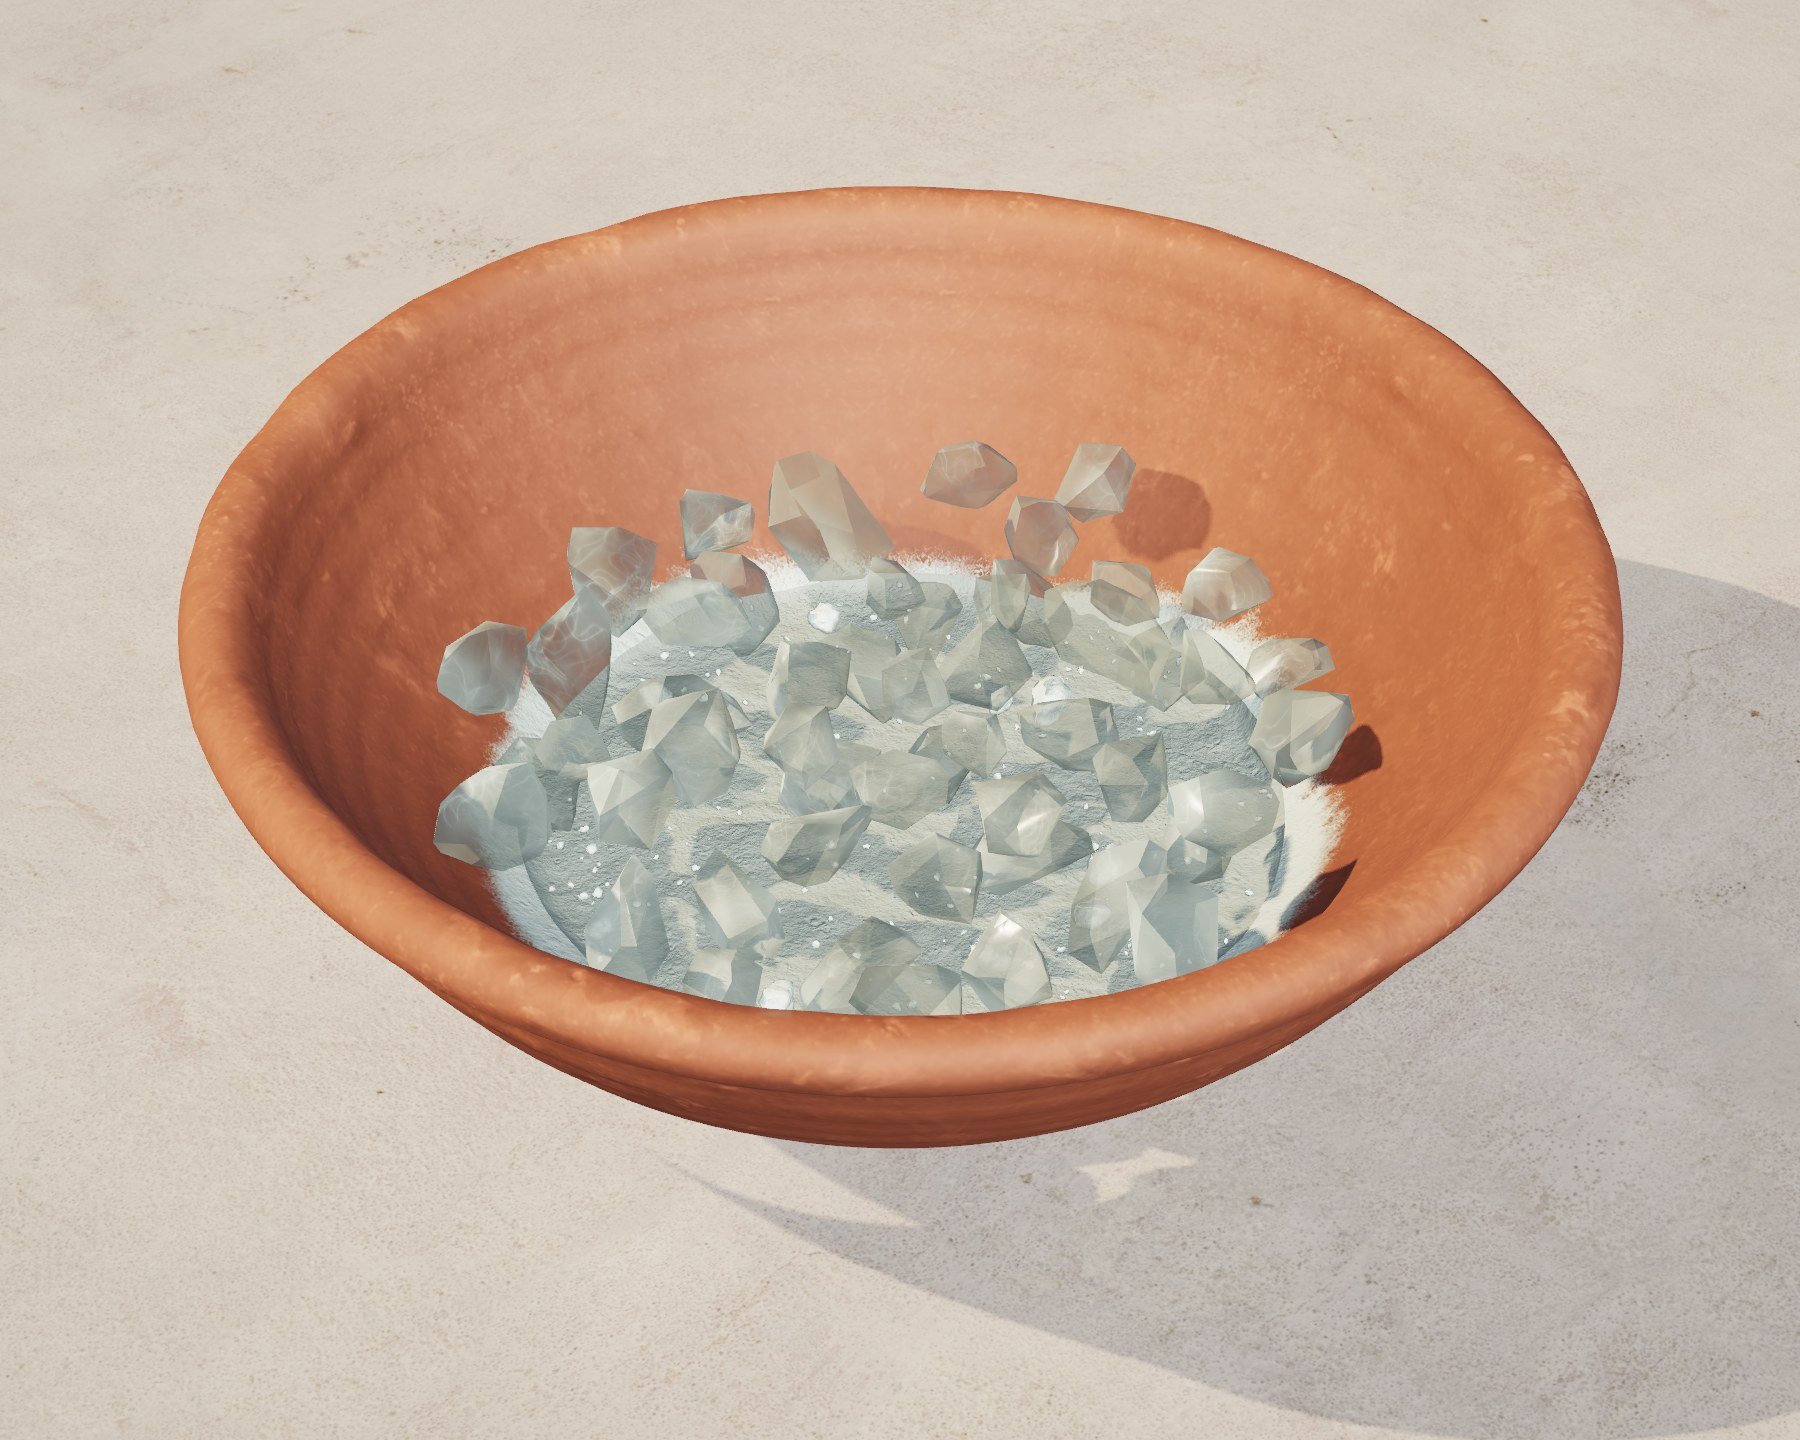
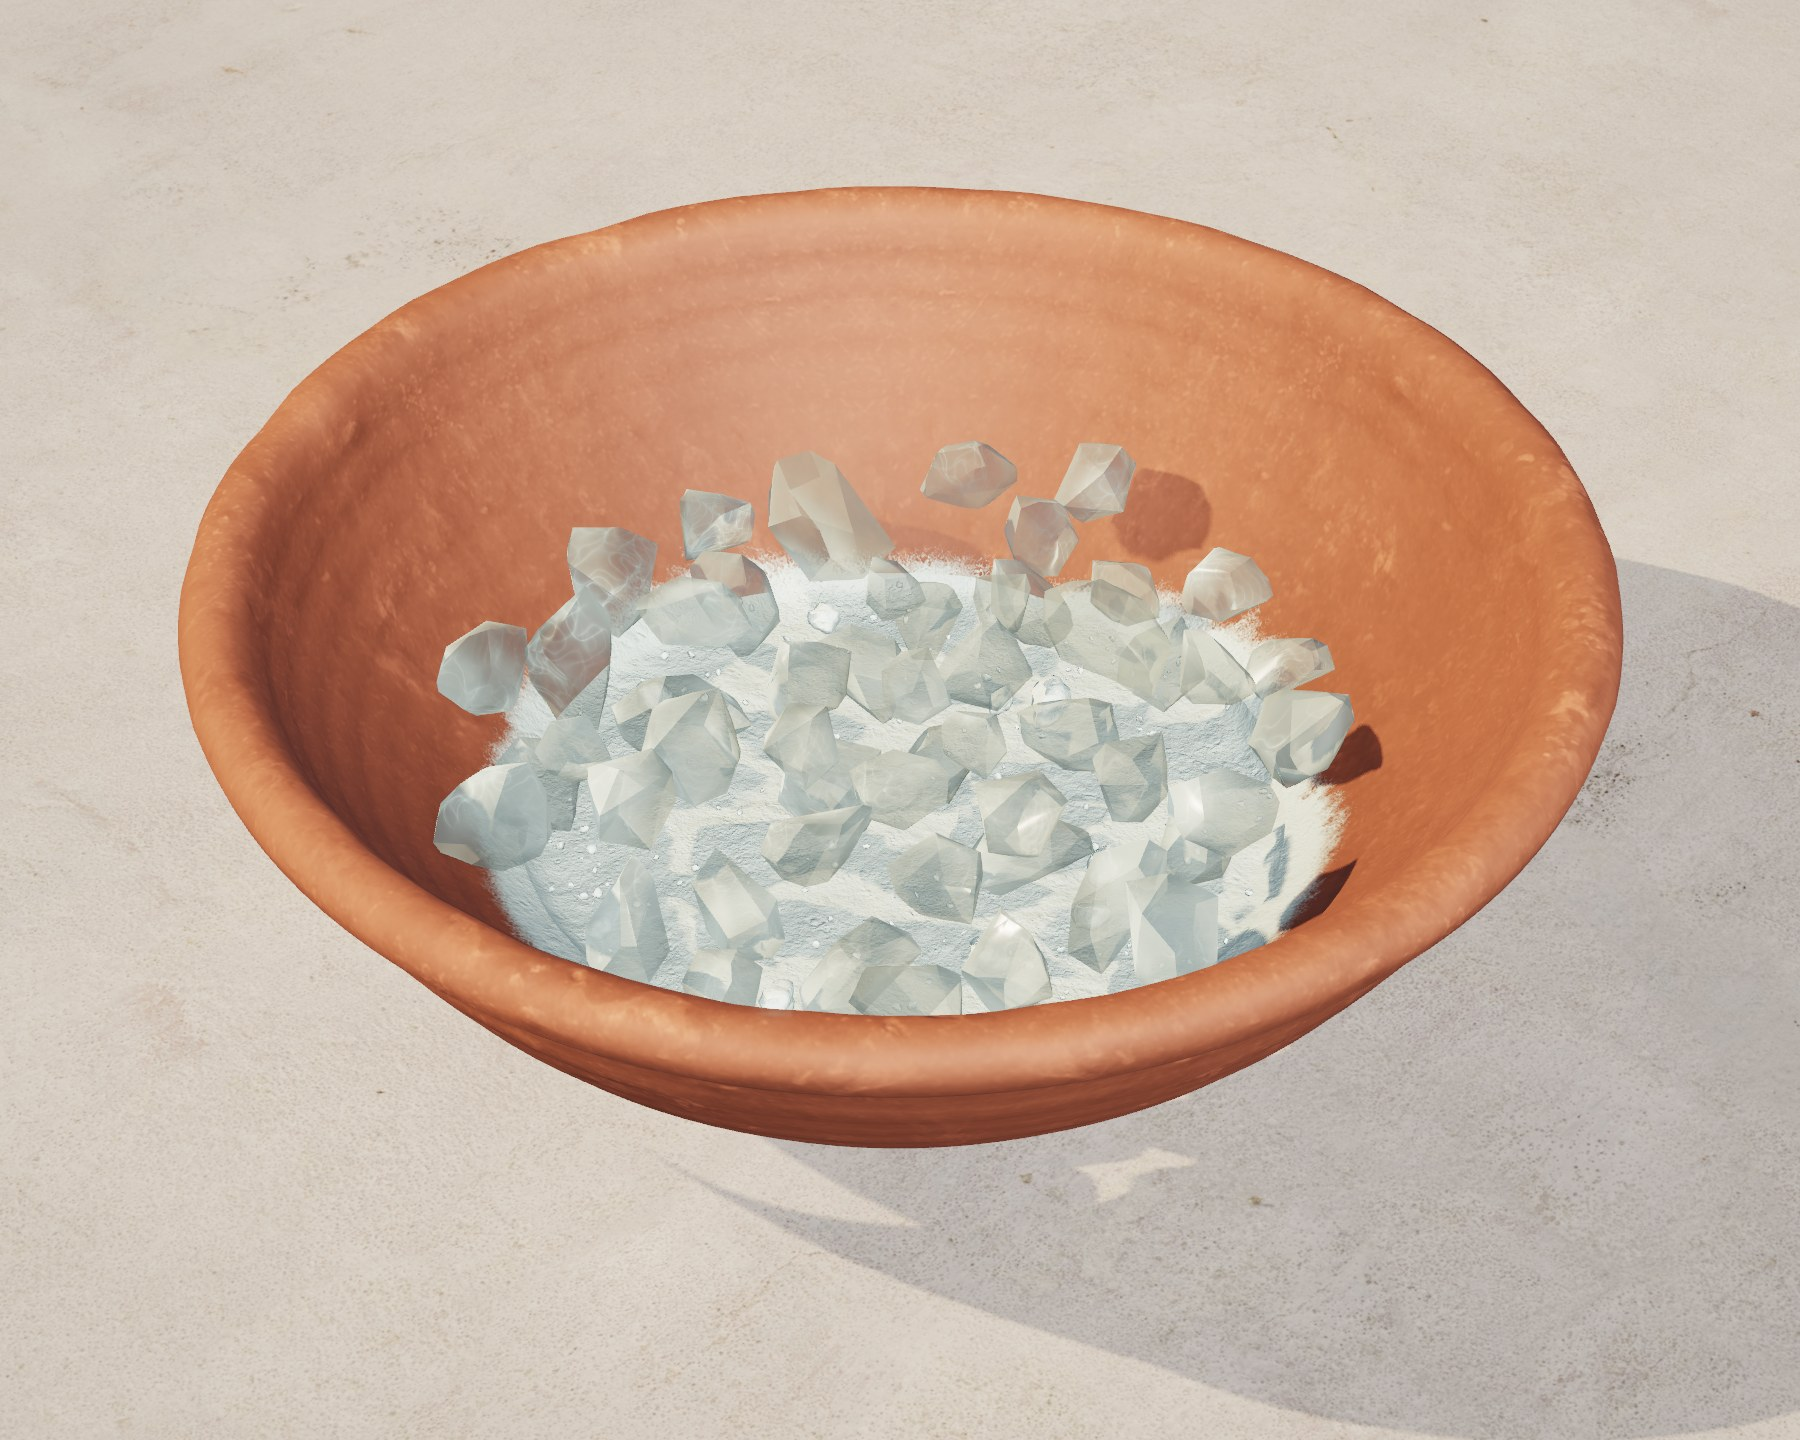
Re-render the Door 1 liquid, bath and alum stills after DR-098, attribute pan shimmer per object, and record the integration (DR-100)
Fifteen object stills changed with the new substance materials, so Door 1 again shows the
liquids Door 2 renders. window.shimmerByObject measures how much of the slow-pan figure each
object carries. DR-100 records the merges, the stale e2e battery, the test uploads that reached
the remote bucket and were deleted, the hall textile shimmer trade-off left for the lead, and
the Iris Xe memory floor.

Changed region(s): [[0.28, 0.4062, 0.7156, 0.7188]]

diff --git a/tools/walkthrough-lab/lab.ts b/tools/walkthrough-lab/lab.ts
@@ -300,6 +300,23 @@ win.flicker = async (frames = 60, threshold = 10, mode = "pan") => {
   context.putImageData(image, 0, 0);
   return { mode, anyPct: +((any / count) * 100).toFixed(3), fourPlusPct: +((four / count) * 100).toFixed(3), events, heat: heat.toDataURL("image/png") };
 };
+win.shimmerByObject = async (frames = 60, threshold = 10) => {
+  const panShimmer = async () => ((await (win.flicker as (f: number, t: number, m: string) => Promise<{ fourPlusPct: number }>)(frames, threshold, "pan")).fourPlusPct);
+  const whole = await panShimmer();
+  const groups = [
+    ...(auditRoot ? objectParts(auditRoot).map((part) => ({ label: `${part.auditName} / ${part.label}`, meshes: part.meshes as THREE.Object3D[] })) : []),
+    ...environmentOf().map((mesh) => ({ label: `environment / ${mesh.name || (mesh as THREE.Mesh).geometry.type}`, meshes: [mesh] })),
+  ];
+  const rows: { label: string; share: number }[] = [];
+  for (const group of groups) {
+    const shown = group.meshes.map((mesh) => mesh.visible);
+    for (const mesh of group.meshes) mesh.visible = false;
+    const without = await panShimmer();
+    group.meshes.forEach((mesh, index) => (mesh.visible = shown[index]!));
+    rows.push({ label: group.label, share: +(whole - without).toFixed(3) });
+  }
+  return { whole, rows: rows.sort((a, b) => b.share - a.share) };
+};
 win.walkCheck = () => {
   if (!walkPlan || !walkColliders) return null;
   let walker: Walker = walkerAt(walkPlan.standpoint.from, walkPlan.standpoint.to, 0);

diff --git a/docs/research/design-process/decisions.md b/docs/research/design-process/decisions.md
@@ -3623,3 +3623,14 @@ novice met, and none touches the sheet.
 - **Leak check:** over a walk, live textures stay at 72 to 110, live GL texture memory at 1.54 to 2.06 GB and buffer memory at 60 to 103 MB, falling when a yard is released, on NVIDIA and on Iris Xe. Standing still with zero GL allocations by the page, the headless shell's GPU process on the Iris Xe grows 16.7 to 23.5 MB/s, while full Chromium on the same Iris Xe stays flat (-2.7 MB/s) and NVIDIA stays flat (-0.1 MB/s). The growth is the headless shell (DR-073), not a leak in our code.
 - **Iris Xe:** the headless shell (`launchLowSpec`), Ajrakh: worst frame per leg 23, 15167, 10090, 35, 27416, 3125, 24291, 25 and 22 ms, its GPU process climbing from 5.7 to 8.9 GB private and free RAM down to 216 MB. Legs without a stall are now 22 to 35 ms (before: 137, 68 and 55 ms on such legs). Full Chromium on the same Iris Xe, not the shell: no multi-second gap on the whole route, worst frame per leg 50, 58, 60, 49, 55, 63, 44, 63 and 38 ms, mean 10 to 12.6 ms, p95 11.9 to 16.9 ms; five legs exceed 50 ms by 5 to 13 ms.
 - **Open:** on the Iris Xe the GPU process holds about 5.4 to 6.5 GB for 1.5 to 2.1 GB of textures. Measured per 2048 px texture: three.js's immutable `texStorage2D` upload costs 58 to 97 MB in the Iris Xe GPU process, a mutable `texImage2D` upload with mipmaps 24 MB. Changing the upload path would save several GB on integrated graphics; it was not done here.
+
+## DR-100: Integration Of DR-098 And DR-099; E2E Studies On Battery V4 With An Image Check; Door 1 Liquid Stills Re-Rendered; Hall Textile Shimmer Left For The Lead (Adopted under the lead's delegation, 2026-11-06)
+- **Merges:** the liquid-colour branch (0eef804) and the frame-stray branch (568a850) both wrote DR-098. Both records are kept; the frame-stray record is renumbered DR-099. No code conflicted.
+- **Door 1 asked for two missing stills.** The demo studies the e2e suite used pinned test battery v3, seeded before the Door 1 stills were re-rendered under new names, so two identification and placement items pointed at `8ba4da5b.jpg` and `9ca5cfdd.jpg`, which no longer exist. The generated battery (`db/seeds/study-test-items.generated.json`) was already current. **Decision:** the e2e studies take their slug from one battery version (now 4: `demo-walking-v4`, `demo-walking-cap-v4`), and the journey spec fails at setup if any image the pinned battery shows is missing from `public/`.
+- **E2E coverage added:** resume and a hub visit keep learning open, then withdrawal (DR-095 item 1); an excluded session ends at once, says only that it ended, and can still withdraw (DR-095 item 4 and correction a); the invite gate (bad code refused, a one-use code refused the second time, a revoked code cannot start a study, a link code admits); a role-less account waits at `/awaiting-access` until an administrator grants a role (DR-096); a content editor uploads an image, a curator's verification is refused while its provenance is "unverified", the editor corrects it and resubmits, the curator verifies it, and a release on unready content publishes nothing. The research dashboard check now enrols its own participant instead of depending on the journey spec's leftovers, and every spec signs staff in through one helper that waits out the per-minute sign-in throttle instead of timing out.
+- **Remote bucket, found and cleaned:** `next start` loads `.env.production.local`, which names the deployment's Neon object store, so three e2e test PNGs (18614 bytes each, random noise) were uploaded to bucket `episteme-media` during this work. All three objects were deleted (HEAD before: present; after: absent) and their rows removed. The e2e server now runs with the S3 variables blank and `MEDIA_LOCAL_DIR` in a scratch folder, and the upload test refuses to run unless the media page reports local disk.
+- **Door 1 parity after DR-098:** Door 1 object stills are rendered from the same substance materials that DR-098 changed, and had not been re-rendered. All 53 were rendered again on NVIDIA; 15 changed (rice starch, neerani, turmeric, madder and myrobalan pots, the copper, vat and tank baths, alum in all three traditions; mean absolute change 0.13 to 5.24 per channel), and the 20 others differed only in JPEG bytes (mean change 0.00) and were left as committed. Both doors now show the same liquids.
+- **Slow-pan shimmer (Section 8.9, at most 0.5 per cent):** measured on all 32 scenes. Eight are at or over: Ajrakh n=6 0.746 and n=9 1.457; Sanganeri n=1 0.500, n=4 0.527 and n=9 2.280; Kalamkari n=1 0.502, n=5 1.108 and n=9 2.564. The same eight read the same at fb445c6 (within 0.003), so neither merge caused them. Hiding one object at a time (`window.shimmerByObject`) puts the halls on the printed product photographs (Kalamkari p1 to p6 together 2.23 of 2.56), and the bench scenes on the wicker basket scan (0.17 to 0.28) and the bamboo lean-to (0.19 to 0.23). Giving the hall photographs the cloth's far mip bias (1.5 beyond 5 m) brings the halls to 0.647, 0.274 and 0.472, but the six products then read visibly soft from the standpoint; 0.7 keeps them sharp but leaves 1.077, 0.742 and 1.138. Rule L4/L5 ranks above the derived budget, so nothing was changed. **For the lead:** choose between sharper products and the budget, or fund better-filtered product textures (pre-filtered mip levels) that could meet both. The detail-layer footprint fade was tried and had no effect, so it was not kept.
+- **Iris Xe route:** two Ajrakh runs on the headless shell were stopped by a free-RAM guard; the second reached leg 3 with the largest headless-shell process at 7633 MB and free RAM at 291 MB (leg 2 worst frame 34 ms). This is DR-099's open texture-upload cost; the Sanganeri and Kalamkari Iris Xe routes were not attempted for that reason.
+- **Removed:** the low-spec Playwright project matched `immersive-rendering.spec.ts`, deleted with the old doors in DR-076; it now matches only the renderer check.
+- **Paper implications:** none for the study design. The e2e figures above are engineering checks of the study flow, not study data.
